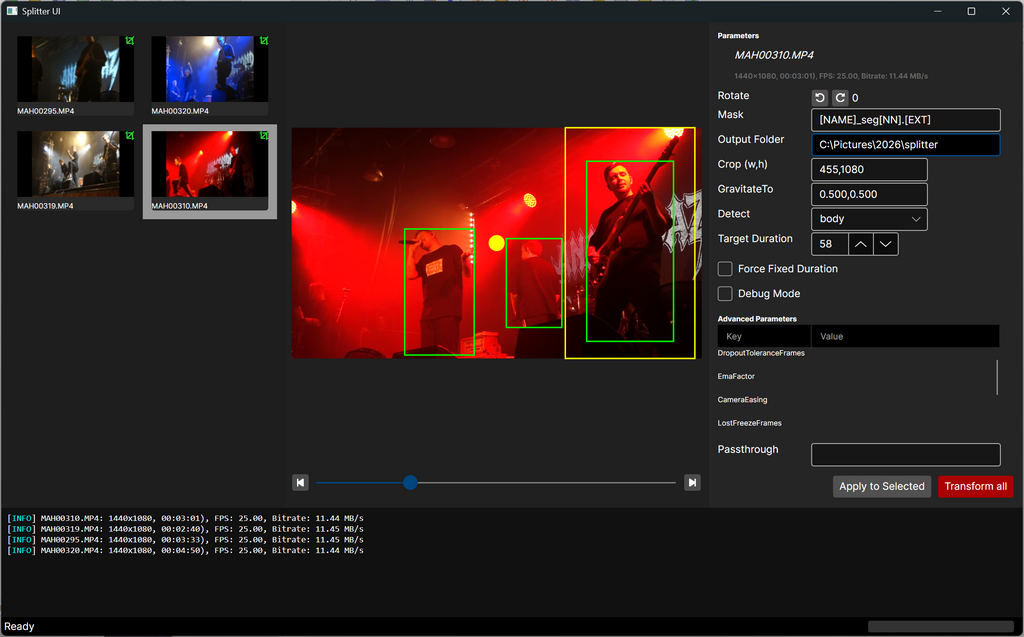
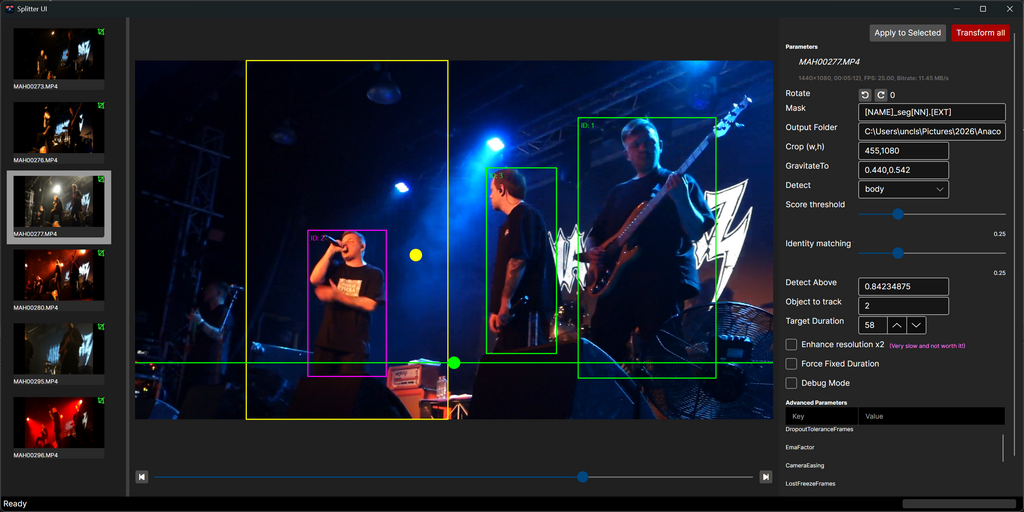
README fixed. Releasing UI now.

diff --git a/splitter-cli/README.md b/splitter-cli/README.md
@@ -140,24 +140,41 @@ All option names are preserved exactly, and descriptions are consolidated for cl
 
 ## Options
 
-| Option | Description |
-|--------|-------------|
-| **--out=<folder>** | Output folder for generated segments. Default: `<input folder>/Splitter`. |
-| **--file=<path>** | Input file list or file mask. If omitted, the first non-option argument is used as input. Examples: `--file=videos/*.mp4`, `--file=file_list.txt`. |
-| **--mask=<pattern>** | Custom output filename pattern. Default: `[NAME]_seg[NN].[EXT]`. Supports `[NAME]`, `[N]`, `[NN]`, `[NNN]`, `[NNNN]`, `[EXT]`. Example: `--mask="[NAME]_[NNNN].mp4"`. |
-| **--duration=<value>** | Override target segment duration. Formats: `Ns`, `NmMs`, `N`. Examples: `--duration=90s`, `--duration=2m30s`, `--duration=45`. Without `--force`: max 58 seconds, equalized across segments. |
-| **--force** | Use the duration exactly as provided. Last segment may be shorter. |
-| **--enhance** | Enable video enhancement. Increases output resolution x4 using RealBasicVSR_x4 model. |
-| **--rotate=<degrees>** | Rotate video by 90, 180, or 270 degrees. Useful for correcting orientation metadata. |
-| **--rotate-auto** | Use automatic rotation detection. |
-| **--estimate** | Print calculated segment information and exit. No splitting is performed. |
-| **--crop[=<w:h>]** | Crop video to a target width and height with face/body tracking. Default: 607x1080. Ideal for Shorts, TikTok, Reels. |
-| **--detect=<name>** | Object detector for tracking. Values: `face` (UltraFace), `body` (YoloOnnx, default), `none` (center crop). |
-| **--gravitate=<x:y>** | Bias the crop window toward a normalized point in the frame. Example: `--gravitate=0.2:0.5`. |
-| **--text** | Use plain-text logging instead of the rich terminal UI. |
-| **--single-thread** | Disable parallel FFmpeg execution. Useful for debugging or low-resource systems. |
-| **--debug** | Show debug overlay during tracking. No cropping performed, but crop region shown. |
-| **-p:<name>=<value>** | Set custom parameters for the object detector. Example: `-p:confidence=0.5`. Defaults: DropoutToleranceFrames=20, EmaFactor=0.65, CameraEasing=0.03, LostFreezeFrames=60. |
+| Parameter | Description |
+|----------|-------------|
+| --out=&lt;folder&gt; | Output folder for segments. Default: same folder as input video + "Splitter". |
+| --file=&lt;path&gt; | Input names or file masks (e.g. "videos/*.mp4"). If not specified, the first non-option argument is used as input. |
+| --mask=&lt;pattern&gt; | Output filename pattern. Default: [NAME]_seg[NN].[EXT]. Supports [NAME], [N], [NN], [NNN], [NNNN], [EXT] placeholders. |
+| --duration=&lt;value&gt; | Override target segment duration. Formats: Ns, NmMs, N. Examples: 90s, 2m30s, 45. Default (without --force): max 58s, equalized segment lengths. |
+| --force | Use fixed segment duration exactly as given. Last segment may be shorter. Default OFF. |
+| --enhance | Enable video enhancement. Output resolution x4 using RealBasicVSR_x4 model. |
+| --rotate=&lt;degrees&gt; | Rotate video by 90, 180, or 270 degrees. |
+| --rotate-auto | Auto-detect rotation using edge orientation statistics. |
+| --estimate | Print calculated segment information and exit. No splitting performed. |
+| --crop[=&lt;w:h&gt;] | Crop video to width w and height h with face tracking. Default: 607x1080. |
+| --detect=&lt;name&gt; | Object detector: face (UltraFace), body (YoloOnnx, default), none. |
+| --detect-above=&lt;0-1&gt; | Report detections only if upper bound starts below this threshold (0.0–1.0 mapped to 0..Height). |
+| --detect-id=&lt;hex&gt; | Hexadecimal ID of face/person to track across segments. Obtained via --debug overlay. |
+| --gravitate=&lt;x:y&gt; | Gravitate tracking toward normalized point (0.0–1.0). Example: 0.2:0.5. |
+| --text | Display log in plain text. |
+| --single-thread | Run in single-threaded mode. Useful for debugging or constrained systems. |
+| --debug | Show debug overlay during face tracking. |
+| -p:&lt;name&gt;=&lt;value&gt; | Set custom detector parameter. Example: -p:EmaFactor=0.65. |
+
+Tracking splitter defaults:
+
+    DropoutToleranceFrames = 20;
+    EmaFactor              = 0.65;
+    CameraEasing           = 0.03;
+    LostFreezeFrames       = 60;   
+
+Rotation detector defaults:
+
+    RotationDetectorSampleCount  = 5;
+    RotationDetectorSampleLength = 0.15; 
+    RotationDetectorFrameWidth   = 320;
+    RotationDetectorFrameHeight  = 180;
+
 
 ## FFmpeg Passthrough
 

diff --git a/README.md b/README.md
@@ -1,5 +1,7 @@
 # Splitter
 
+This application was built to help me with maintaining my YouTube channel - [UnclShura](https://www.youtube.com/@UnclShura).
+
 Splitter is a high-performance command line tool for cutting one or more video files into equal or 
 fixed‑length segments using multi‑threaded FFmpeg execution. It supports batch input, flexible 
 duration formats, rotation, smart face/body‑aware cropping, ETA and speed reporting, with nice GUI 
